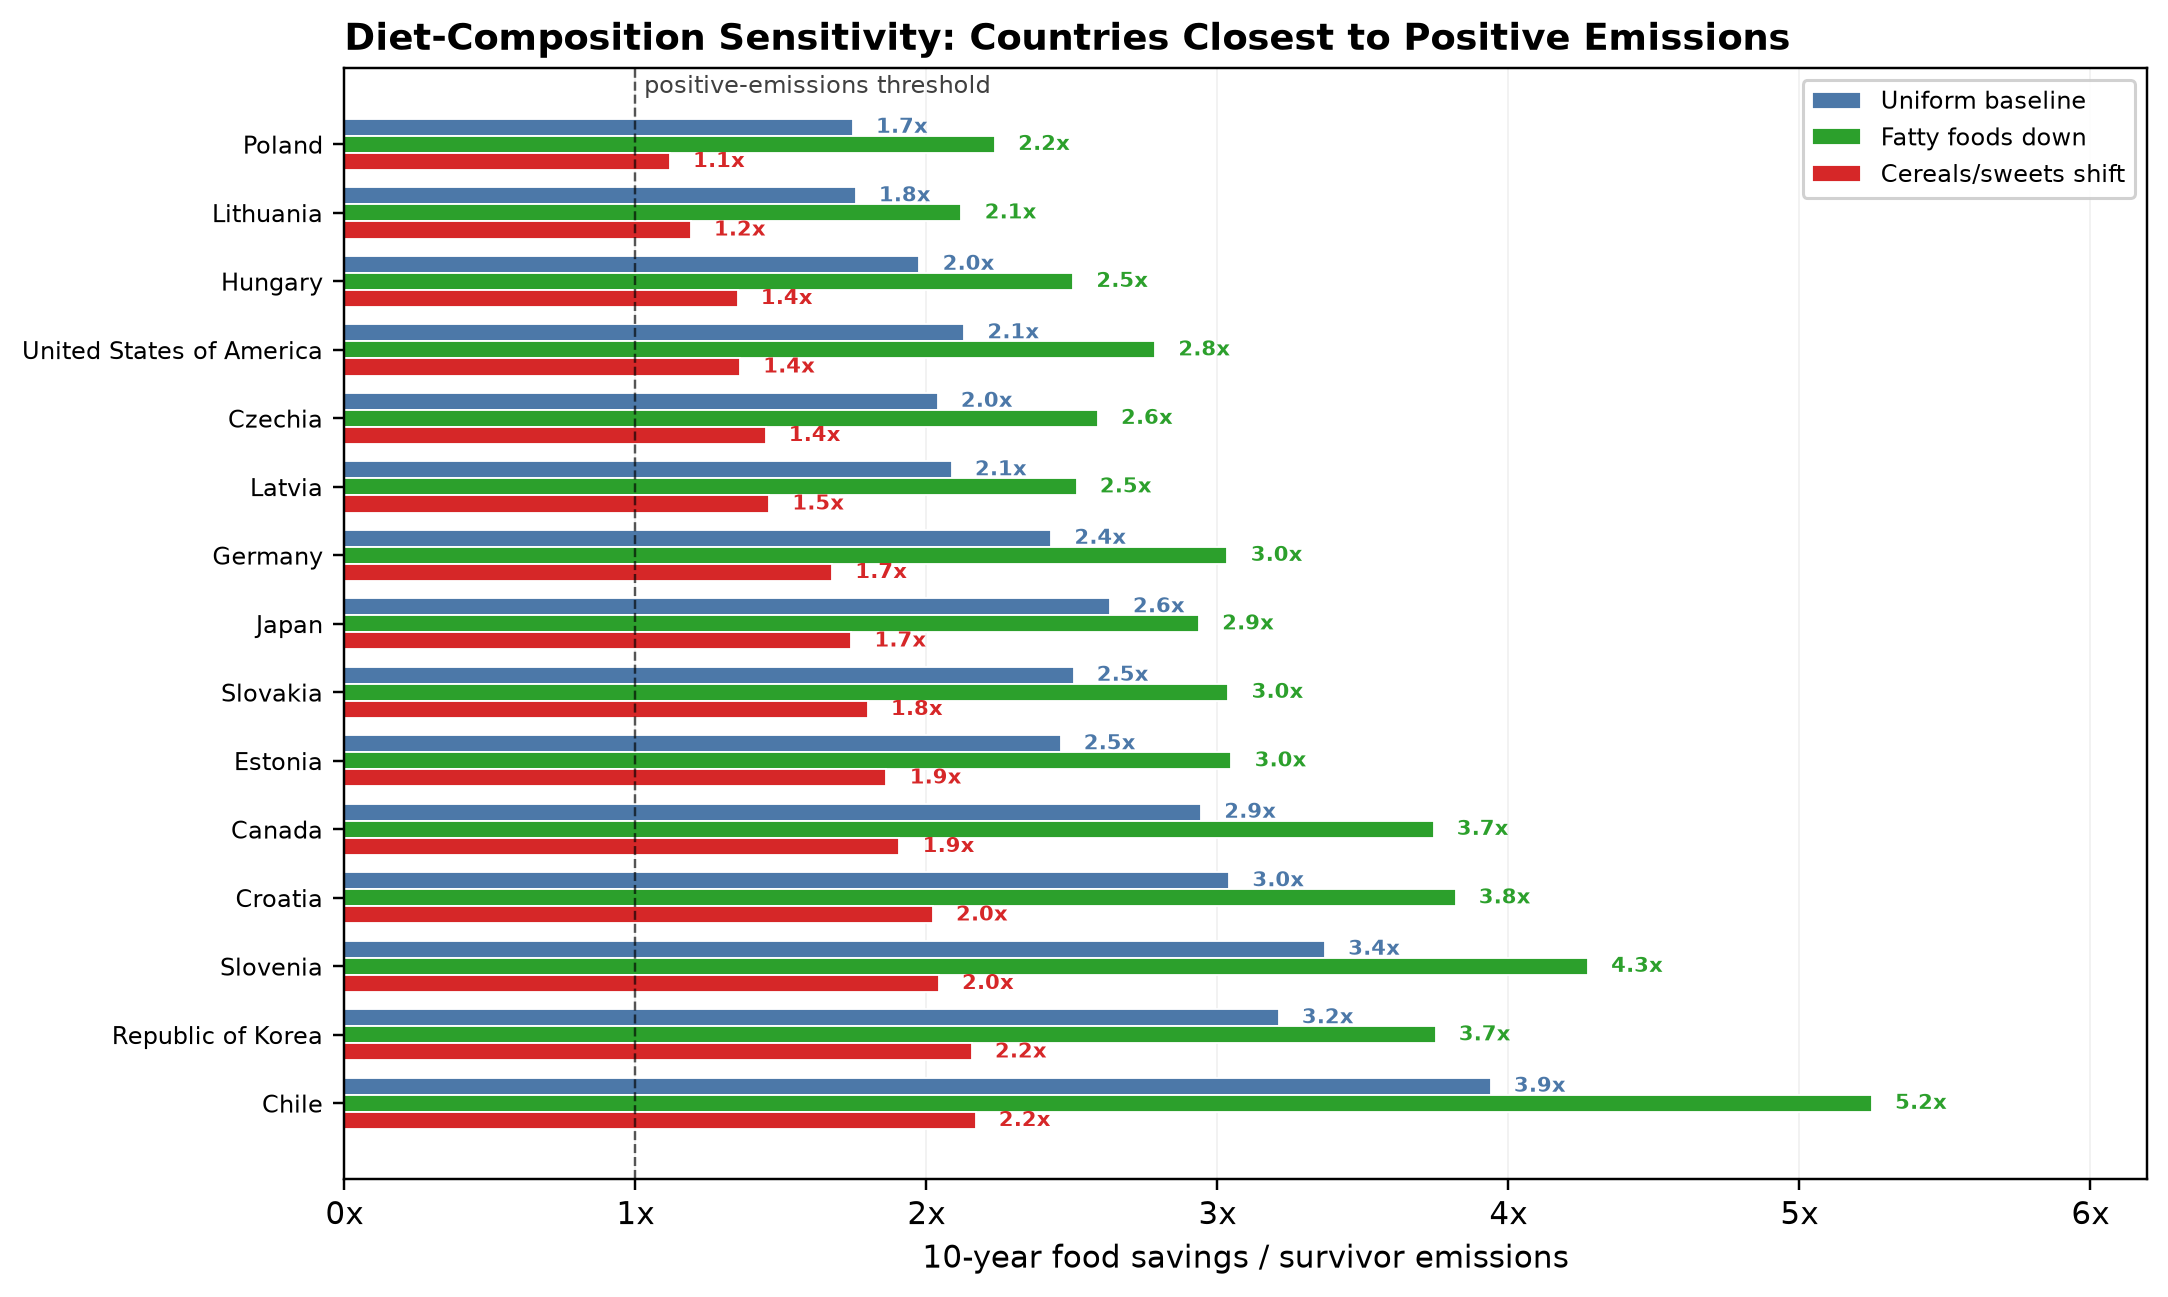
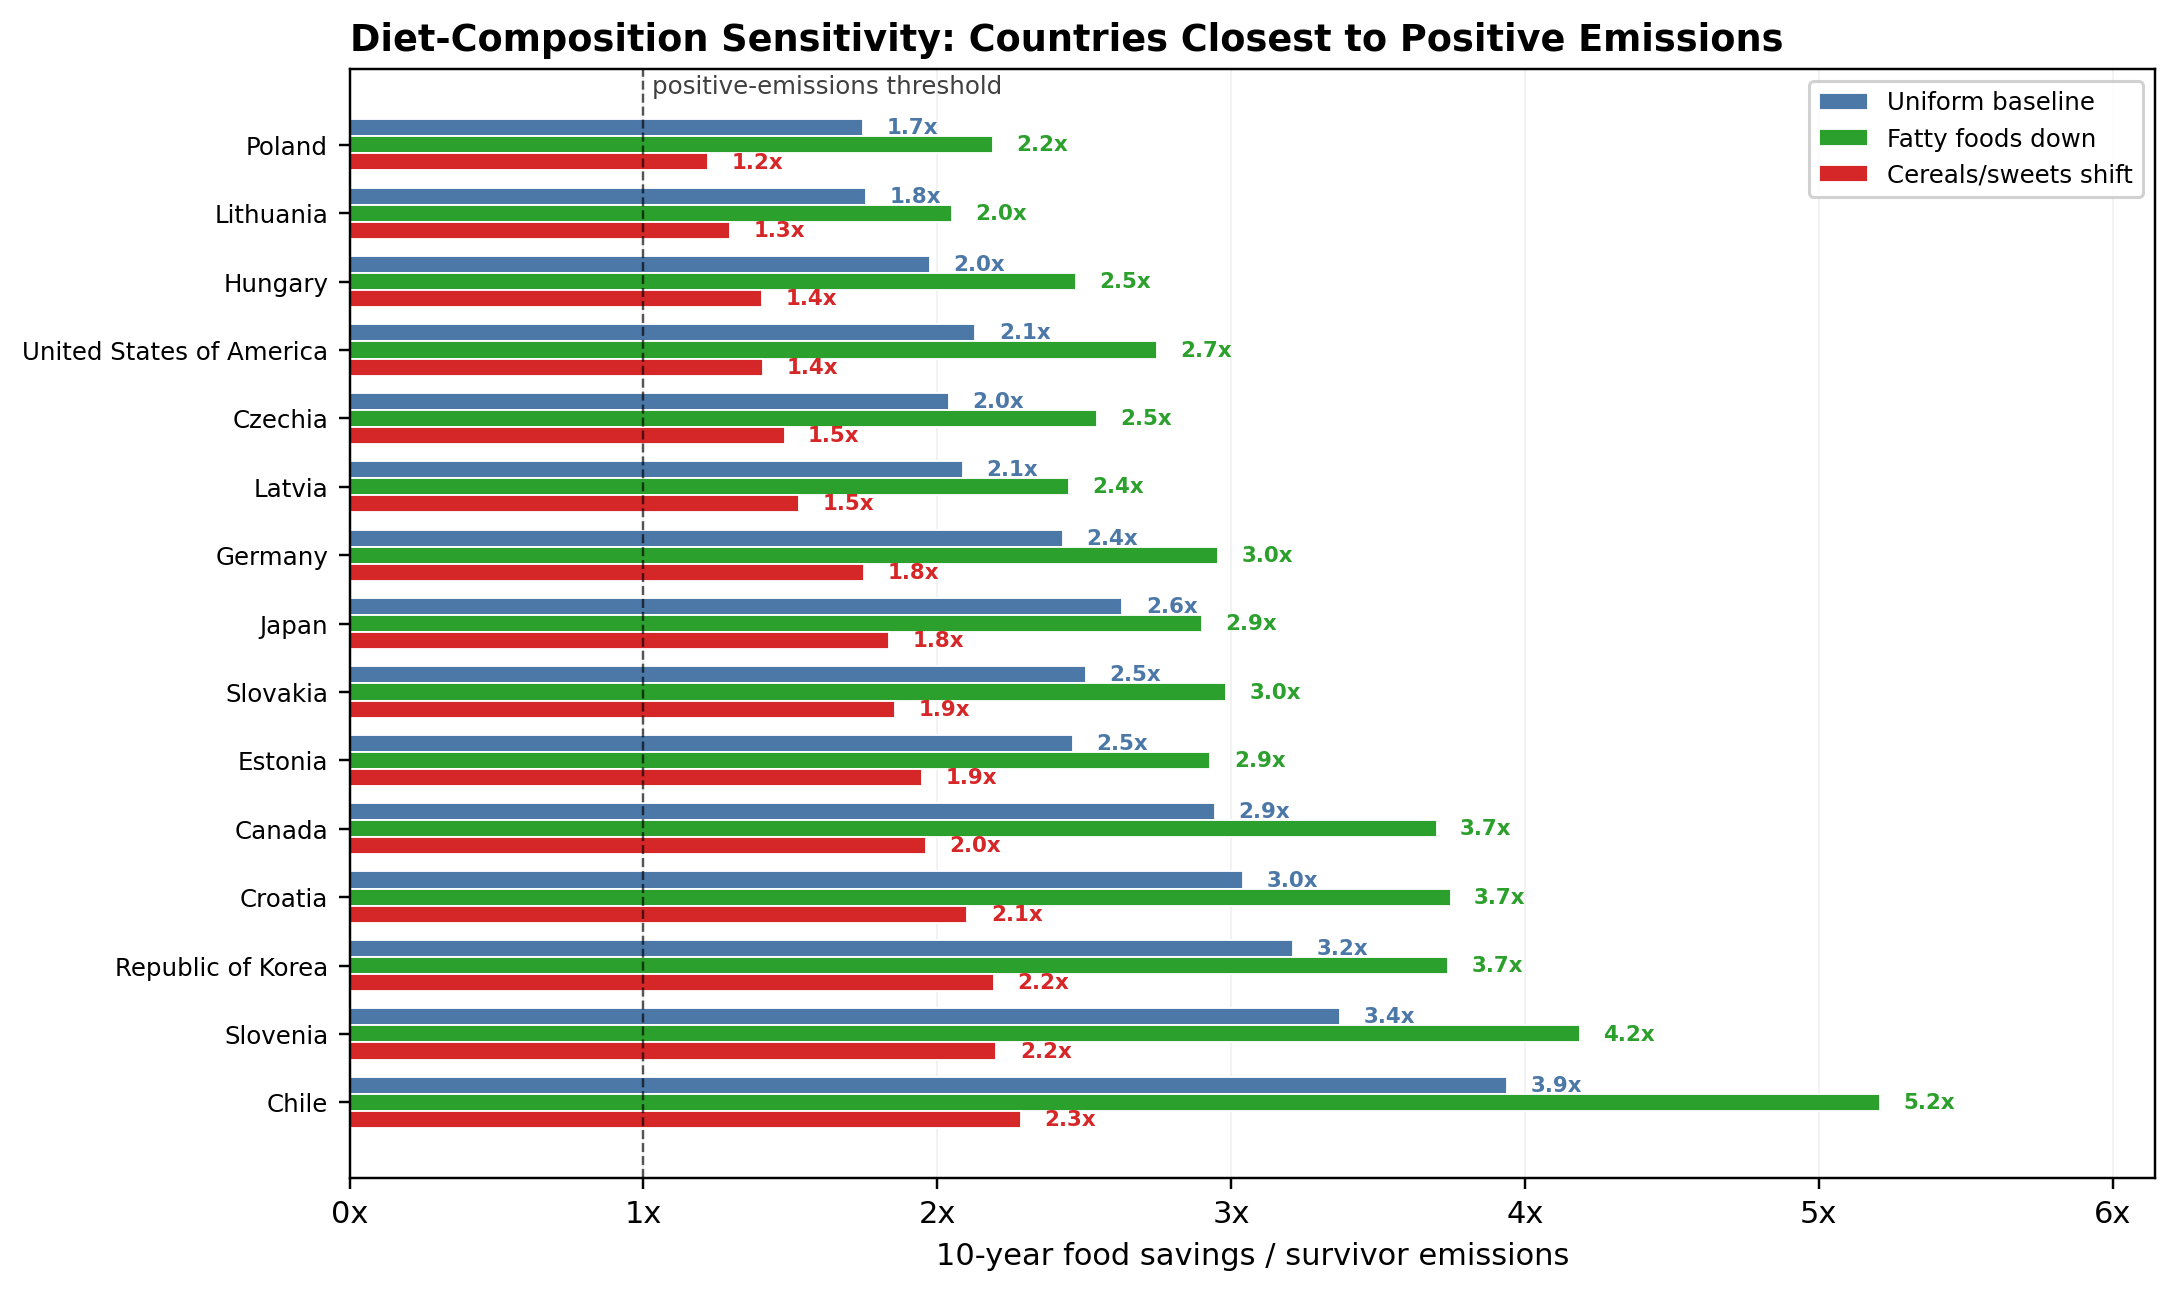
Fix residual kcal-share aggregate double-count and harden LFS CI reads.
Exclude FAOSTAT parent aggregates from diet calorie-share calibration, guard both pipelines against unresolved LFS pointer stubs, regenerate diet-sensitivity outputs, and make fix3 proof scripts portable.

Changed region(s): [[0.0, 0.0, 1.0, 0.9907], [0.5563, 0.4025, 0.5872, 0.4334], [0.4636, 0.0929, 0.4945, 0.1238]]

diff --git a/diet_sensitivity/pipeline.py b/diet_sensitivity/pipeline.py
@@ -31,6 +31,7 @@ import pyreadr
 from data_visualization.pipeline import (
     AGGREGATE_ITEMS,
     ROOT,
+    _assert_not_lfs_pointer,
     _compute_equilibrium,
 )
 
@@ -39,10 +40,17 @@ from .scenarios import SCENARIOS
 
 # ── FAOSTAT kcal helpers ──────────────────────────────────────────────────────
 
-def load_kcal_shares(countries_in_scope) -> pd.DataFrame:
+def load_kcal_shares(countries_in_scope, exclude_aggregates: bool = True) -> pd.DataFrame:
     """
     Load 2022 FAOSTAT kcal supply and compute calorie shares per
     country × ``final_food_group``.
+
+    ``exclude_aggregates`` (default True) applies the same fix #1
+    ``AGGREGATE_ITEMS`` exclusion as the tonnage step: the FBS lists parent
+    aggregates alongside their component items, and groups without a parent
+    aggregate (Dairy, Eggs) would otherwise be counted once while every other
+    group is counted twice, distorting the calorie-share weights used for
+    diet-scenario calibration.
 
     Returns
     -------
@@ -62,6 +70,8 @@ def load_kcal_shares(countries_in_scope) -> pd.DataFrame:
         & (kcal["Element"] == "Food supply (kcal/capita/day)")
         & (kcal["ISO"].isin(countries_in_scope))
     ]
+    if exclude_aggregates:
+        kcal = kcal[~kcal["Item"].isin(AGGREGATE_ITEMS)]
     kcal = pd.merge(
         kcal,
         mapping.set_index("fbs_group")[["final_food_group"]],
@@ -295,6 +305,9 @@ def compute_food_savings_diet(
     ci_path = Path(ci_file)
     if not ci_path.is_absolute():
         ci_path = ROOT / "Food data" / ci_file
+    # Carbon-intensity CSVs are git-LFS tracked; fail loudly on a fresh clone
+    # where they are still unresolved pointer stubs.
+    _assert_not_lfs_pointer(ci_path)
     carbon_intensity_raw = pd.read_csv(ci_path)
 
     # ── FAOSTAT food quantities ────────────────────────────────────────────
@@ -430,7 +443,9 @@ def compute_food_savings_diet(
     # ── Apply diet-scenario calibrated shocks ─────────────────────────────
     if multipliers:
         print(f"    Loading FAOSTAT kcal shares for calibration...")
-        kcal_shares = load_kcal_shares(countries_in_scope)
+        kcal_shares = load_kcal_shares(
+            countries_in_scope, exclude_aggregates=exclude_aggregates
+        )
 
         diet_shocks = build_diet_shocks(sim_result_perc, kcal_shares, multipliers)
 

diff --git a/data_visualization/pipeline.py b/data_visualization/pipeline.py
@@ -21,7 +21,7 @@ ROOT = Path(__file__).resolve().parent.parent
 # apply the identical exclusion (fix #1).
 if str(ROOT) not in sys.path:
     sys.path.insert(0, str(ROOT))
-from build_carbon_intensity import AGGREGATE_ITEMS
+from build_carbon_intensity import AGGREGATE_ITEMS, _assert_not_lfs_pointer
 
 
 # ── Equilibrium solver ────────────────────────────────────────────────
@@ -117,6 +117,9 @@ def compute_food_savings(
     )
     elasticity_supply_raw = pd.read_csv(ROOT / "Food data" / "elasticity_supply.csv")
     elasticity_demand = pd.read_csv(ROOT / "Food data" / "elasticity_demand.csv")
+    # The carbon-intensity CSVs are git-LFS tracked; fail loudly on a fresh
+    # clone where they are still unresolved pointer stubs.
+    _assert_not_lfs_pointer(ROOT / "Food data" / ci_file)
     carbon_intensity_raw = pd.read_csv(ROOT / "Food data" / ci_file)
 
     countries_in_scope = sim_result["ISO"].unique()

diff --git a/outputs/fix3/verify_delta.py b/outputs/fix3/verify_delta.py
@@ -11,7 +11,7 @@ import numpy as np
 import pandas as pd
 import pyreadr
 
-ROOT = Path(r"C:\Users\sethw\repos")
+ROOT = Path(__file__).resolve().parents[2]
 
 sim = list(pyreadr.read_r(str(ROOT / "full_simulation_results8.rds")).values())[0]
 sim["w_eer"] = sim["weighting"] * sim["eer"]

diff --git a/outputs/fix3/proof_port.py b/outputs/fix3/proof_port.py
@@ -5,7 +5,7 @@ from pathlib import Path
 import numpy as np
 import pandas as pd
 
-ROOT = Path(r"C:\Users\sethw\repos")
+ROOT = Path(__file__).resolve().parents[2]
 if str(ROOT) not in sys.path:
     sys.path.insert(0, str(ROOT))
 
